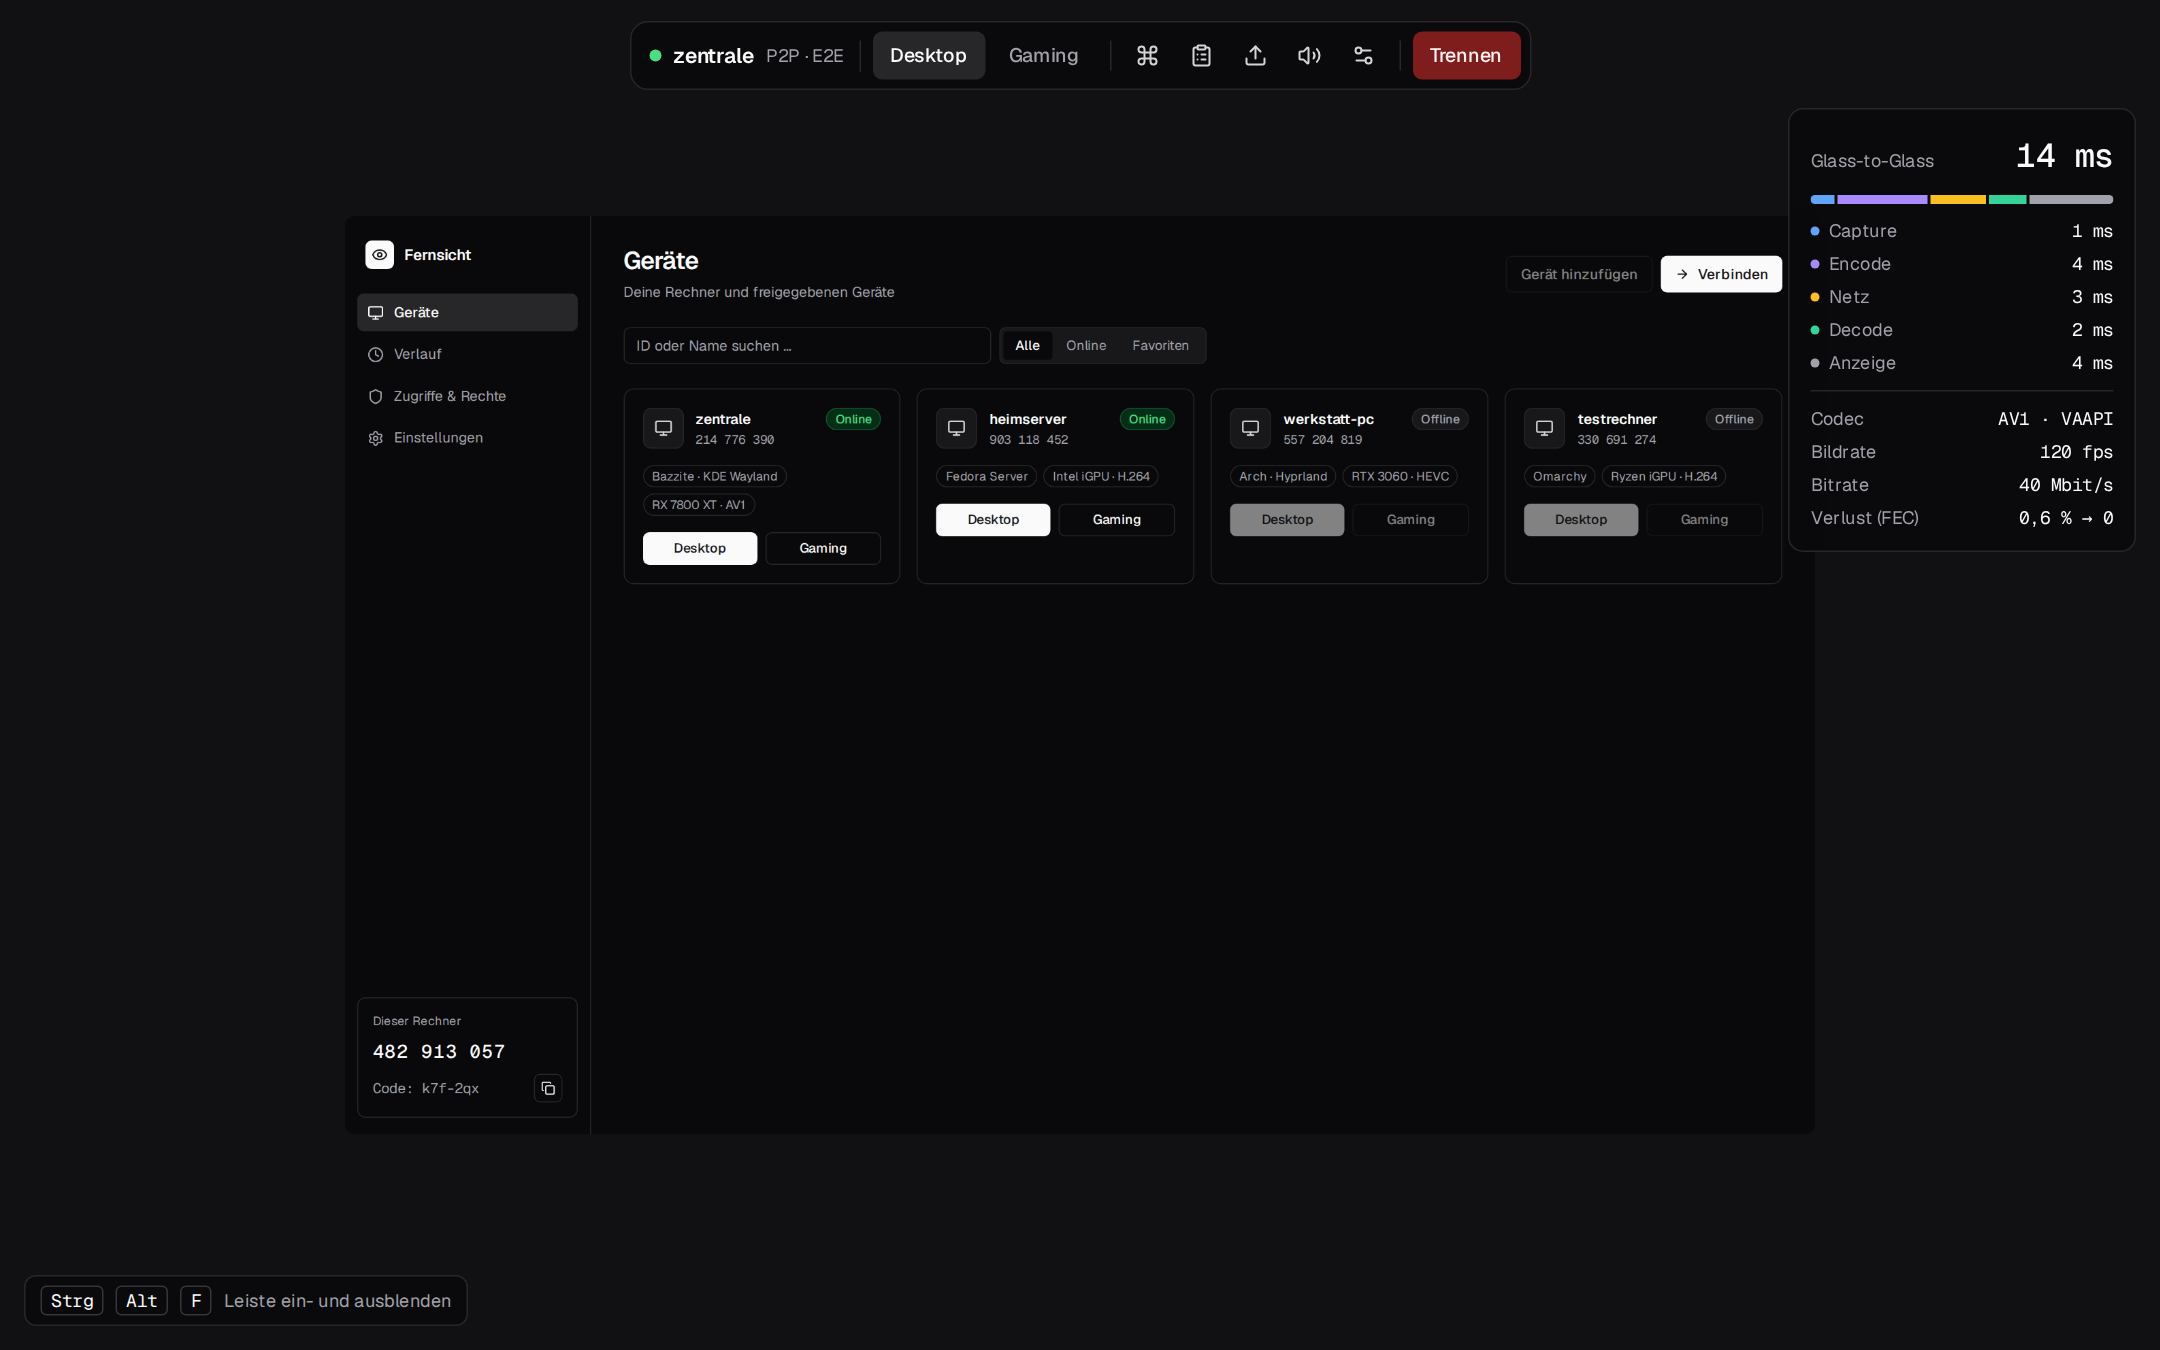
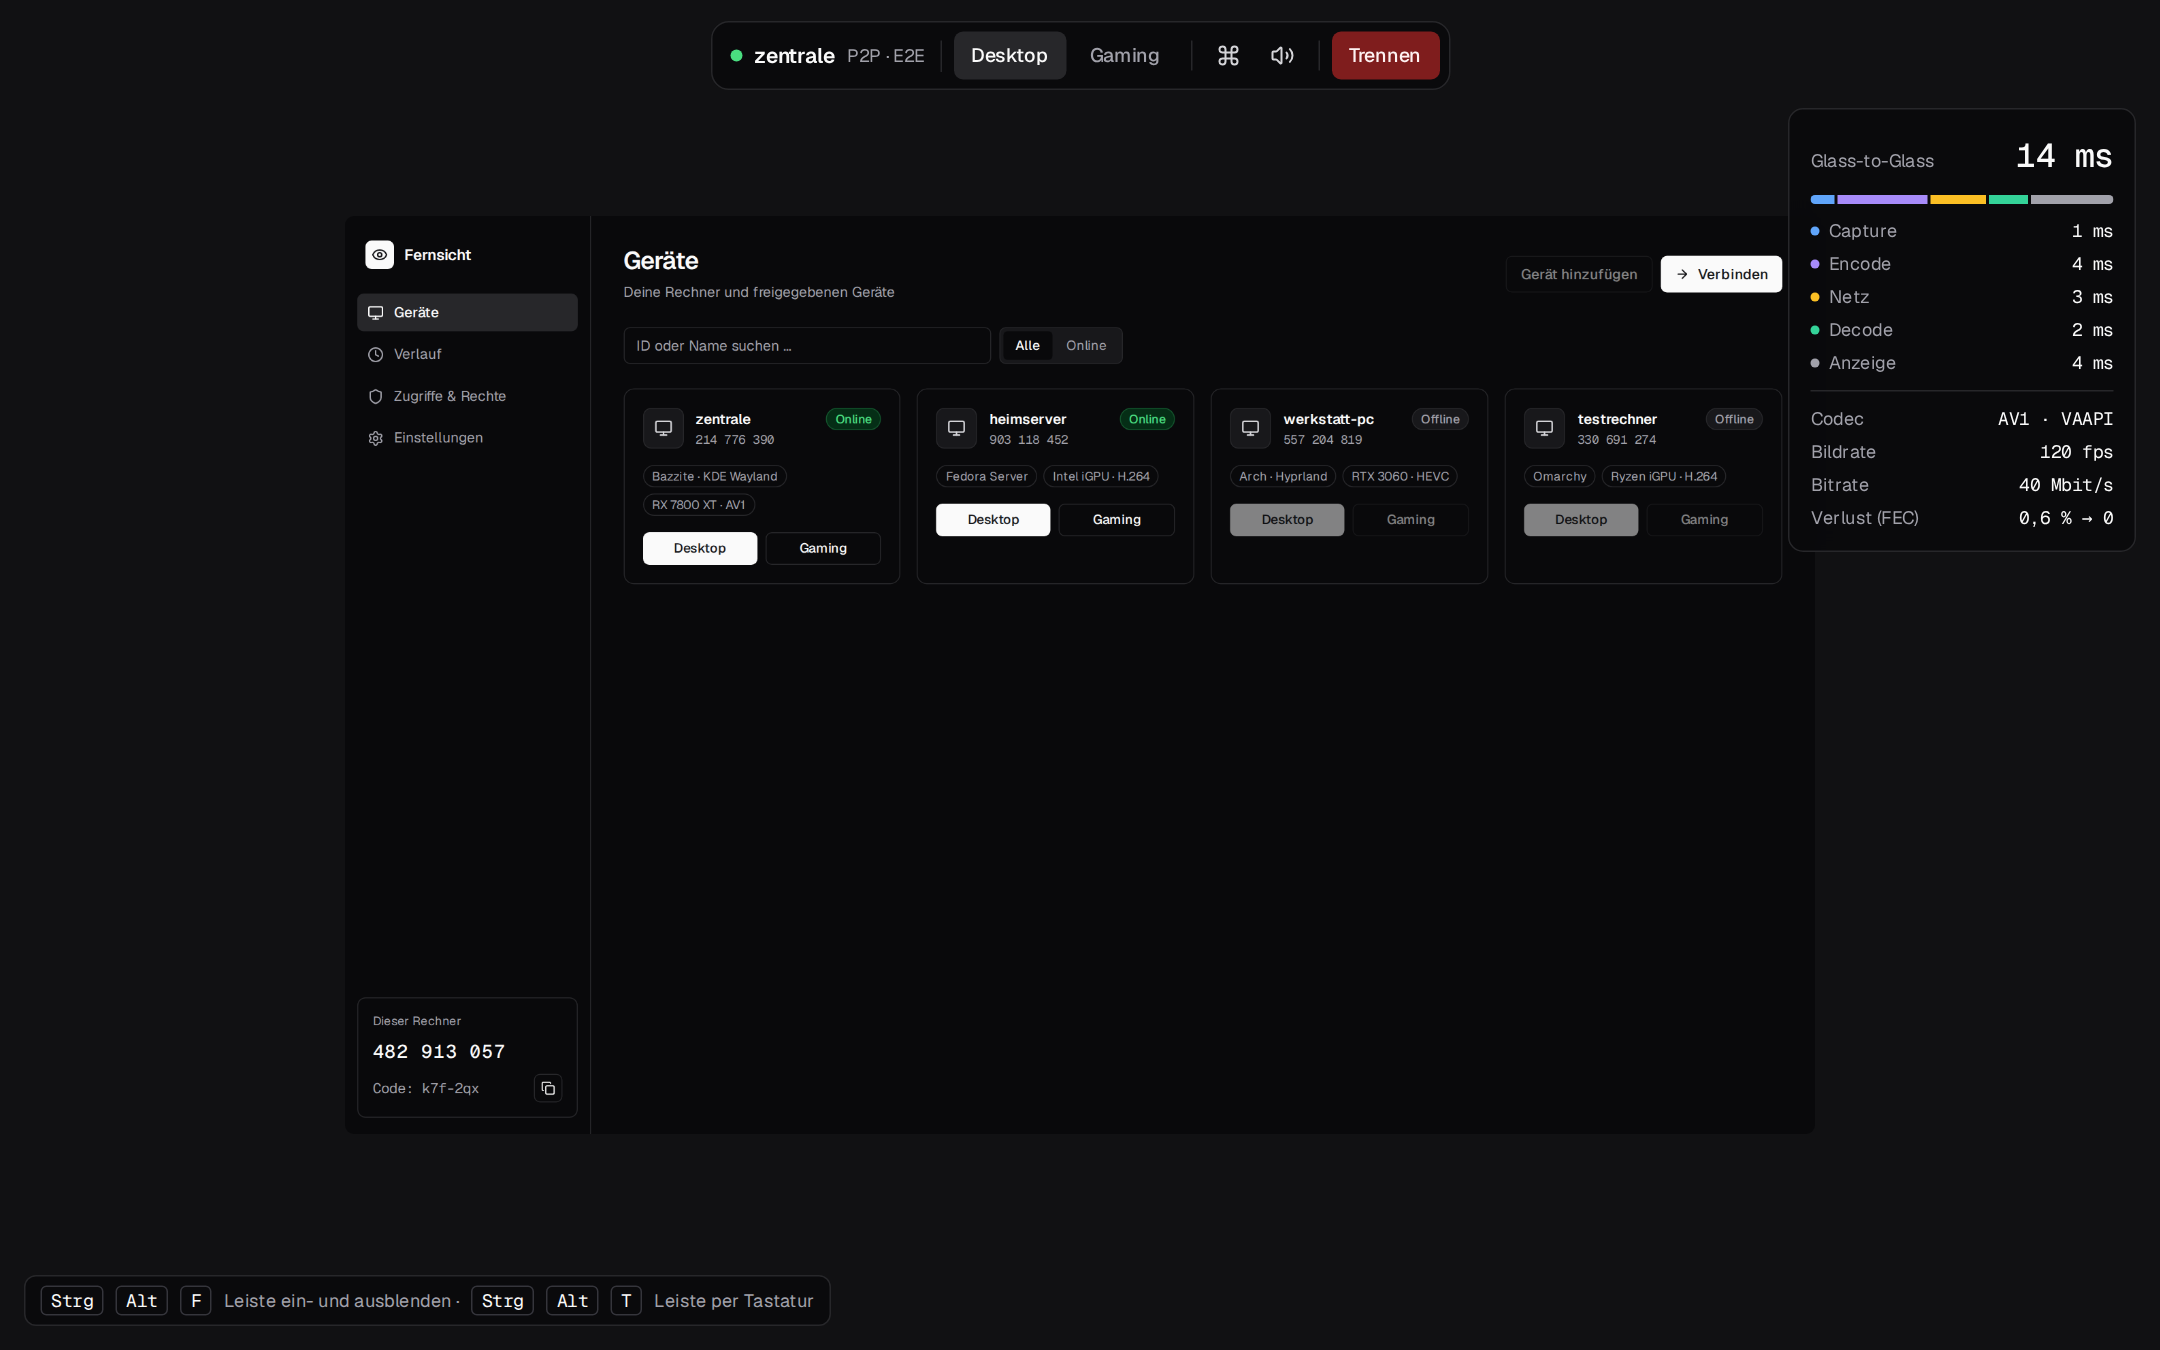
No inert buttons or dead code; paired devices can be removed
The session toolbar's clipboard, files and settings buttons did
nothing, and favourites could be filtered but never set: all gone, and
the mode hints no longer promise files and clipboard. The settings list
the devices paired with this computer's host, each with "Entfernen"
(the app's unpair_from_host, unused until now). The web viewer says
when the host shows no PIN yet (HostInfo.pairing, polled) and shows no
fullscreen button where a page cannot go full screen (the iPhone).
Removed as unused: resetZoom, Slot::take_timeout, Slot::is_closed,
CaptureError::Stopped, InputQueue::held. The screenshots are retaken.

Changed region(s): [[0.3102, 0.0, 0.7134, 0.0622], [0.5273, 0.2489, 0.5583, 0.28]]

diff --git a/apps/client-ui/src/routes/settings.tsx b/apps/client-ui/src/routes/settings.tsx
@@ -1,4 +1,4 @@
-import { Segmented } from "@fernsicht/ui";
+import { Button, Segmented } from "@fernsicht/ui";
 import { useMutation, useQuery, useQueryClient } from "@tanstack/react-query";
 import { useState } from "react";
 
@@ -128,10 +128,9 @@ export function SettingsPage() {
 function HostSettings() {
   const queryClient = useQueryClient();
   const { data } = useQuery(thisMachineQuery);
-  const boost = useMutation({
-    mutationFn: actions.setGpuBoost,
-    onSuccess: () => queryClient.invalidateQueries({ queryKey: ["this-machine"] }),
-  });
+  const refresh = () => queryClient.invalidateQueries({ queryKey: ["this-machine"] });
+  const boost = useMutation({ mutationFn: actions.setGpuBoost, onSuccess: refresh });
+  const unpair = useMutation({ mutationFn: actions.unpairFromHost, onSuccess: refresh });
   const host = data?.host;
   if (!host) return null;
   return (
@@ -155,6 +154,39 @@ function HostSettings() {
       {boost.isError && (
         <p role="alert" className="m-0 text-xs text-muted-foreground">
           {errorText(boost.error)}
+        </p>
+      )}
+      <Setting
+        title="Gekoppelte Geräte"
+        hint="Diese Geräte dürfen sich mit diesem Rechner verbinden. Ein entferntes Gerät muss neu gekoppelt werden; läuft gerade eine Sitzung mit ihm, endet sie."
+      >
+        {host.paired.length === 0 ? (
+          <p className="m-0 text-muted-foreground">Noch keine.</p>
+        ) : (
+          <ul className="m-0 flex list-none flex-col gap-2 p-0">
+            {host.paired.map((d) => (
+              <li key={d.key} className="flex items-center justify-between gap-3">
+                <span className="flex flex-col">
+                  <span className="font-medium">{d.name}</span>
+                  <span className="font-mono text-xs text-muted-foreground">{d.key}</span>
+                </span>
+                <Button
+                  size="sm"
+                  variant="outline"
+                  disabled={unpair.isPending}
+                  aria-label={`${d.name} entfernen`}
+                  onClick={() => unpair.mutate(d.key)}
+                >
+                  Entfernen
+                </Button>
+              </li>
+            ))}
+          </ul>
+        )}
+      </Setting>
+      {unpair.isError && (
+        <p role="alert" className="m-0 text-xs text-muted-foreground">
+          {errorText(unpair.error)}
         </p>
       )}
     </section>

diff --git a/apps/client-ui/src/app-mode.test.tsx b/apps/client-ui/src/app-mode.test.tsx
@@ -60,6 +60,15 @@ vi.mock("@tauri-apps/api/core", () => ({
           service: { ...service(), installed: true, active: true, version: "0.2.0" },
         };
         return null;
+      case "unpair_from_host": {
+        const { device } = args as { device: string };
+        const h = backend.thisMachine.host!;
+        backend.thisMachine = {
+          ...backend.thisMachine,
+          host: { ...h, paired: h.paired.filter((p) => p.key !== device) },
+        };
+        return null;
+      }
       case "stop_sharing":
         backend.thisMachine = { ...backend.thisMachine, host: null, service: service() };
         return null;
@@ -78,7 +87,6 @@ const zentrale = (over: Partial<Device> = {}): Device => ({
   id: "k1",
   name: "zentrale",
   online: true,
-  favorite: false,
   os: "Bazzite",
   gpu: "Radeon RX 7700 XT / 7800 XT · H.264",
   paired: true,
@@ -417,6 +425,14 @@ describe("Desktop-App", () => {
     await waitFor(() =>
       expect(screen.getByRole("checkbox", { name: "Hochtakten" })).not.toBeChecked(),
     );
+  });
+
+  it("removes a device paired with this computer", async () => {
+    backend.thisMachine = { name: "zentrale", host: host() };
+    const { user } = await renderApp("/settings");
+    await user.click(await screen.findByRole("button", { name: "zentrale entfernen" }));
+    expect(called("unpair_from_host")).toEqual([["unpair_from_host", { device: "bbbb" }]]);
+    expect(await screen.findByText("Noch keine.")).toBeInTheDocument();
   });
 
   it("shows no host settings without a host", async () => {

diff --git a/web/viewer/src/routes/live.test.tsx b/web/viewer/src/routes/live.test.tsx
@@ -10,11 +10,13 @@ import { FakePeerConnection, installFakes } from "../test-rtc";
 import { renderViewer } from "../test-utils";
 
 let pinOk = true;
+let pairing = true;
 
 beforeEach(() => {
   pinOk = true;
+  pairing = true;
   installFakes((path) => {
-    if (path === "/api/info") return { status: 200, body: { name: "zentrale", pairing: true } };
+    if (path === "/api/info") return { status: 200, body: { name: "zentrale", pairing } };
     return pinOk
       ? {
           status: 200,
@@ -79,6 +81,18 @@ describe("Web-Viewer am Host", () => {
     await user.clear(screen.getByLabelText("PIN"));
     await user.type(screen.getByLabelText("PIN"), "123{Enter}");
     expect(submit).toBeDisabled();
+  });
+
+  it("says when the host shows no PIN yet", async () => {
+    pairing = false;
+    await renderViewer("/");
+    expect(await screen.findByText(/keine Kopplung offen/)).toBeVisible();
+  });
+
+  it("offers full screen only where the browser has it", async () => {
+    await connected();
+    // jsdom, like the iPhone's Safari, has no full screen for pages.
+    expect(screen.queryByRole("button", { name: "Vollbild" })).not.toBeInTheDocument();
   });
 
   it("says when the PIN is wrong", async () => {

diff --git a/web/ui/src/components/session-view.tsx b/web/ui/src/components/session-view.tsx
@@ -1,5 +1,4 @@
 import {
-  ClipboardList,
   Keyboard,
   MousePointer2,
   ZoomOut,
@@ -7,8 +6,6 @@ import {
   Minimize,
   Monitor,
   MonitorPlay,
-  Settings2,
-  Upload,
   Volume2,
   VolumeX,
 } from "lucide-react";
@@ -195,12 +192,6 @@ export function SessionView({
                   }))}
                 />
               )}
-              <Button size="icon" variant="ghost" aria-label="Zwischenablage">
-                <ClipboardList size={16} />
-              </Button>
-              <Button size="icon" variant="ghost" aria-label="Dateien senden">
-                <Upload size={16} />
-              </Button>
               <Button
                 size="icon"
                 variant="ghost"
@@ -224,9 +215,6 @@ export function SessionView({
                   {fullscreen ? <Minimize size={16} /> : <Maximize size={16} />}
                 </Button>
               )}
-              <Button size="icon" variant="ghost" aria-label="Einstellungen">
-                <Settings2 size={16} />
-              </Button>
               <Divider />
               <Button size="sm" variant="destructive" onClick={onDisconnect}>
                 Trennen

diff --git a/apps/client-ui/src/routes/devices.tsx b/apps/client-ui/src/routes/devices.tsx
@@ -21,7 +21,7 @@ import { useMemo, useRef, useState } from "react";
 
 import { actions, devicesQuery, errorText, inApp } from "../lib/api";
 
-type Filter = "all" | "online" | "favorites";
+type Filter = "all" | "online";
 
 export function DevicesPage() {
   const { data: devices, isPending, isError } = useQuery(devicesQuery);
@@ -41,7 +41,6 @@ export function DevicesPage() {
     const qDigits = q.replace(/\s/g, "");
     return (devices ?? []).filter((d) => {
       if (filter === "online" && !d.online) return false;
-      if (filter === "favorites" && !d.favorite) return false;
       if (!q) return true;
       return (
         d.name.toLowerCase().includes(q) ||
@@ -99,7 +98,6 @@ export function DevicesPage() {
           options={[
             { value: "all", label: "Alle" },
             { value: "online", label: "Online" },
-            { value: "favorites", label: "Favoriten" },
           ]}
         />
       </div>

diff --git a/apps/client-ui/src/routes/devices.test.tsx b/apps/client-ui/src/routes/devices.test.tsx
@@ -42,13 +42,12 @@ describe("Geräte", () => {
     expect(screen.getByText("Keine Geräte gefunden.")).toBeInTheDocument();
   });
 
-  it("filters online devices and favourites", async () => {
+  it("filters online devices", async () => {
     const { user } = await renderApp("/devices");
     await cards();
     await user.click(screen.getByRole("radio", { name: "Online" }));
     expect(names(screen.getAllByRole("article"))).toEqual(["zentrale", "heimserver"]);
-    await user.click(screen.getByRole("radio", { name: "Favoriten" }));
-    expect(names(screen.getAllByRole("article"))).toEqual(["zentrale", "werkstatt-pc"]);
+    expect(screen.queryByRole("radio", { name: "Favoriten" })).not.toBeInTheDocument();
     await user.click(screen.getByRole("radio", { name: "Alle" }));
     expect(screen.getAllByRole("article")).toHaveLength(4);
   });

diff --git a/web/ui/src/demo.ts b/web/ui/src/demo.ts
@@ -10,7 +10,6 @@ export const demoDevices: Device[] = [
     id: "214776390",
     name: "zentrale",
     online: true,
-    favorite: true,
     os: "Bazzite · KDE Wayland",
     gpu: "RX 7800 XT · AV1",
   },
@@ -18,7 +17,6 @@ export const demoDevices: Device[] = [
     id: "903118452",
     name: "heimserver",
     online: true,
-    favorite: false,
     os: "Fedora Server",
     gpu: "Intel iGPU · H.264",
   },
@@ -26,7 +24,6 @@ export const demoDevices: Device[] = [
     id: "557204819",
     name: "werkstatt-pc",
     online: false,
-    favorite: true,
     os: "Arch · Hyprland",
     gpu: "RTX 3060 · HEVC",
   },
@@ -34,7 +31,6 @@ export const demoDevices: Device[] = [
     id: "330691274",
     name: "testrechner",
     online: false,
-    favorite: false,
     os: "Omarchy",
     gpu: "Ryzen iGPU · H.264",
   },

diff --git a/apps/client-ui/src/lib/api.ts b/apps/client-ui/src/lib/api.ts
@@ -69,7 +69,6 @@ export const deviceQuery = (id: string) =>
           id,
           name: id.replace(/(\d{3})(?=\d)/g, "$1 "),
           online: true,
-          favorite: false,
           os: "",
           gpu: "",
         }
@@ -162,6 +161,9 @@ export const actions = {
   openPairing: () => invoke<PairingOpened>("open_pairing"),
   share: () => invoke<void>("share_this_machine"),
   setGpuBoost: (on: boolean) => invoke<void>("set_gpu_boost", { on }),
+  /** Removes a device paired with this computer's host (by its key); its
+   * session ends. */
+  unpairFromHost: (device: string) => invoke<void>("unpair_from_host", { device }),
   stopSharing: () => invoke<void>("stop_sharing"),
 };
 

diff --git a/web/viewer/src/routes/connect.tsx b/web/viewer/src/routes/connect.tsx
@@ -27,6 +27,8 @@ export const hostInfoQuery = {
   queryFn: fetchHostInfo,
   staleTime: Infinity,
   retry: false,
+  // Whether the host shows a PIN changes while the page is open.
+  refetchInterval: 3000,
 } as const;
 
 export function ConnectPage() {
@@ -125,6 +127,11 @@ function HostForm({ host }: { host: HostInfo }) {
       </div>
 
       <PinField id="pin" value={pin} onChange={setPin} />
+      {!host.pairing && (
+        <p className="m-0 text-xs leading-normal text-muted-foreground">
+          Am Host ist gerade keine Kopplung offen: dort zuerst „Gerät koppeln“ wählen.
+        </p>
+      )}
 
       <ModeChoice mode={mode} onChange={setMode} />
 

diff --git a/web/ui/src/lib/session.ts b/web/ui/src/lib/session.ts
@@ -2,8 +2,8 @@ import type { SessionMode } from "../types";
 
 /** The session modes, the first the usual one. */
 export const SESSION_MODES: readonly { mode: SessionMode; label: string; hint: string }[] = [
-  { mode: "desktop", label: "Desktop", hint: "Steuern, Dateien, Zwischenablage" },
-  { mode: "gaming", label: "Gaming", hint: "Pointer-Lock, Gamepad, Ton" },
+  { mode: "desktop", label: "Desktop", hint: "Maus und Tastatur, der Zeiger bleibt frei" },
+  { mode: "gaming", label: "Gaming", hint: "Zeiger gefangen (Pointer-Lock), Gamepads" },
 ];
 
 /** A session page's search: the mode, desktop unless it says gaming. */

diff --git a/web/viewer/src/lib/touch.test.ts b/web/viewer/src/lib/touch.test.ts
@@ -1,6 +1,6 @@
 import { describe, expect, it } from "vitest";
 
-import { LONG_PRESS_MS, NO_ZOOM, TouchController, type TouchMode, type Zoom } from "./touch";
+import { LONG_PRESS_MS, TouchController, type TouchMode, type Zoom } from "./touch";
 
 /** A controller over a 1000×500 box whose picture fills it exactly. */
 function setup(mode: TouchMode = "direct") {
@@ -153,9 +153,6 @@ describe("TouchController, two fingers", () => {
     expect(sent).toEqual([]);
     c.cancel(1);
     c.cancel(2);
-
-    c.resetZoom();
-    expect(zooms.at(-1)).toEqual(NO_ZOOM);
   });
 
   it("never pans past the picture's edge", () => {

diff --git a/web/ui/src/components/session-view.test.tsx b/web/ui/src/components/session-view.test.tsx
@@ -224,15 +224,7 @@ describe("SessionView", () => {
       onSendKeys: vi.fn(),
       onFullscreenChange: vi.fn(),
     });
-    for (const name of [
-      "Bildschirm wählen",
-      "Tasten senden",
-      "Zwischenablage",
-      "Dateien senden",
-      "Ton ausschalten",
-      "Vollbild",
-      "Einstellungen",
-    ]) {
+    for (const name of ["Bildschirm wählen", "Tasten senden", "Ton ausschalten", "Vollbild"]) {
       expect(screen.getByRole("button", { name })).toBeInTheDocument();
     }
   });
